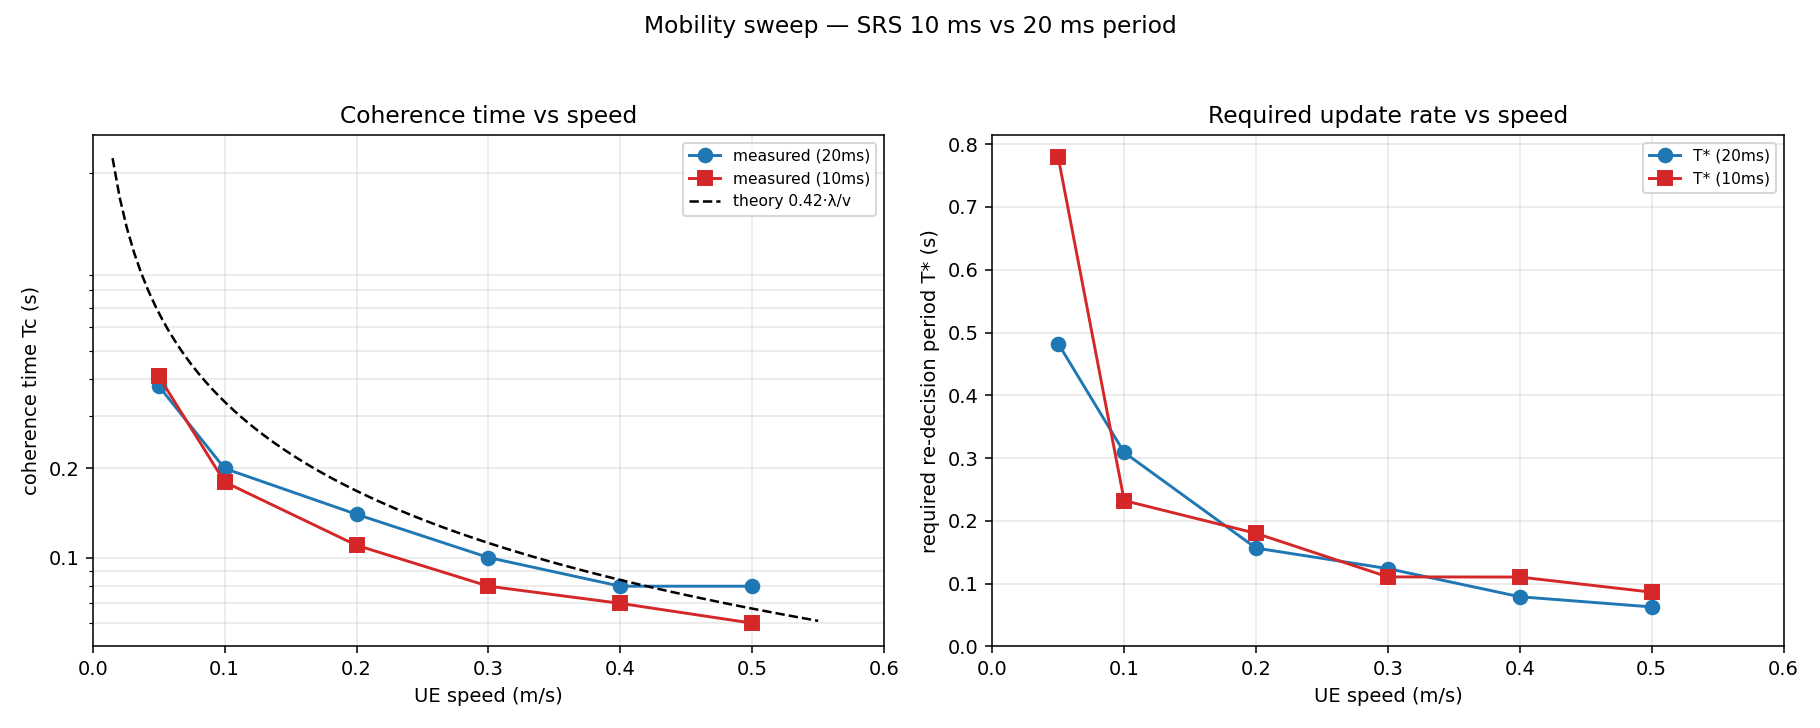
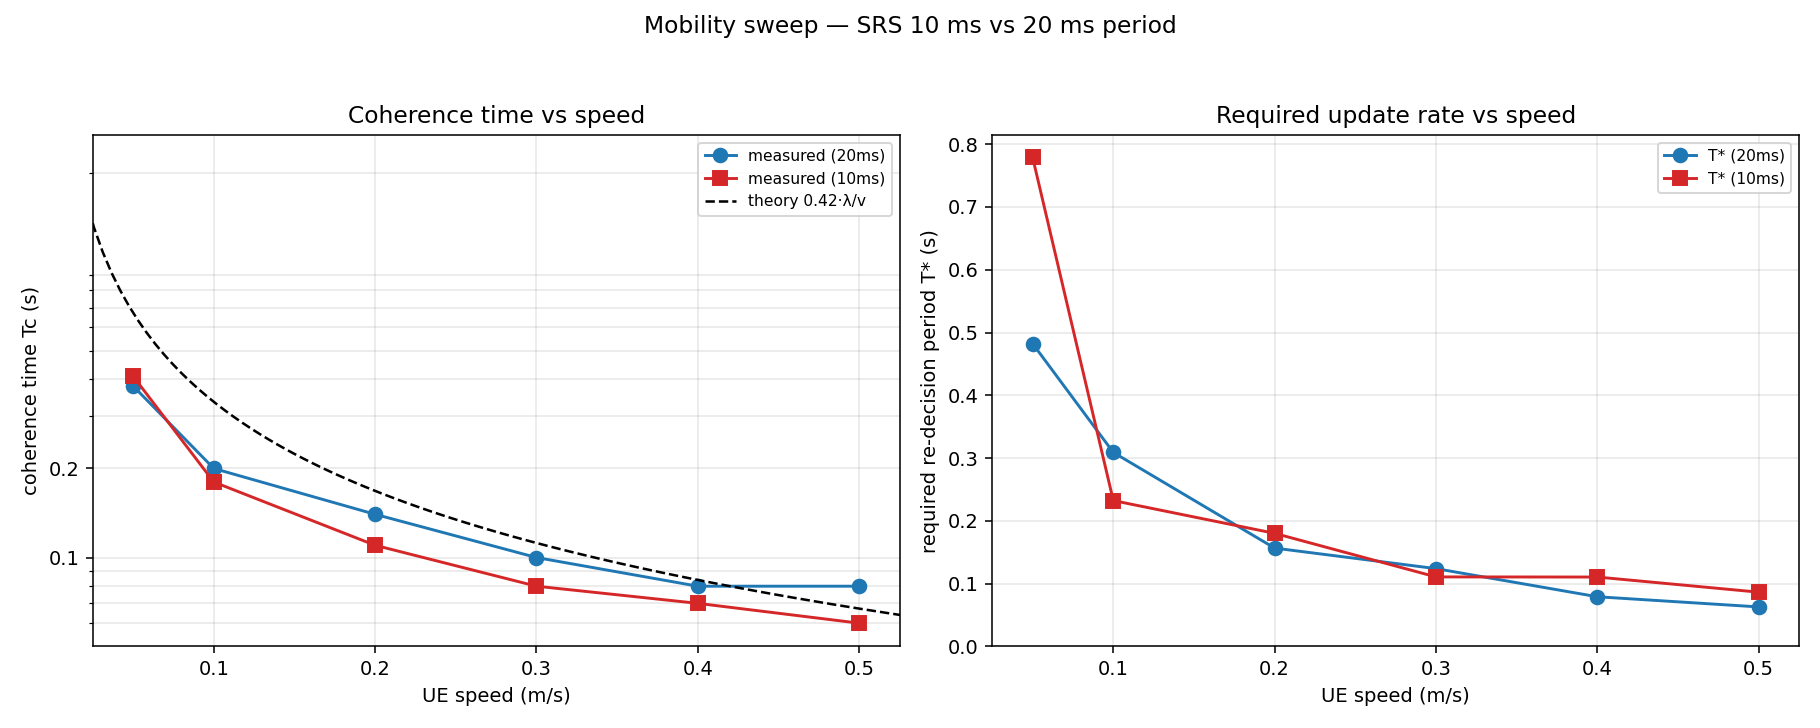
update on plot and code for mobility plots along with axes setting for better plot

diff --git a/tools/plot_mobility_sweep.py b/tools/plot_mobility_sweep.py
@@ -79,7 +79,7 @@ def main():
         ax[0].set_yticklabels([f"{t:g}" for t in yticks0])
         ax[0].yaxis.set_minor_formatter(matplotlib.ticker.NullFormatter())
 
-    ax[0].set_xlim(0.0, 0.6)
+    ax[0].set_xlim(0.025, 0.525)
     ax[0].grid(alpha=.3, which="both"); ax[0].legend(fontsize=8)
 
     # ---- T* vs speed ----
@@ -91,7 +91,7 @@ def main():
     ax[1].set_xlabel("UE speed (m/s)"); ax[1].set_ylabel("required re-decision period T* (s)")
     ax[1].set_title("Required update rate vs speed")
 
-    ax[1].set_xlim(0.0, 0.6)
+    ax[1].set_xlim(0.025, 0.525)
     ax[1].grid(alpha=.3); ax[1].legend(fontsize=8); ax[1].set_ylim(bottom=0)
 
     fig.suptitle("Mobility sweep — SRS 10 ms vs 20 ms period",fontsize=12)
